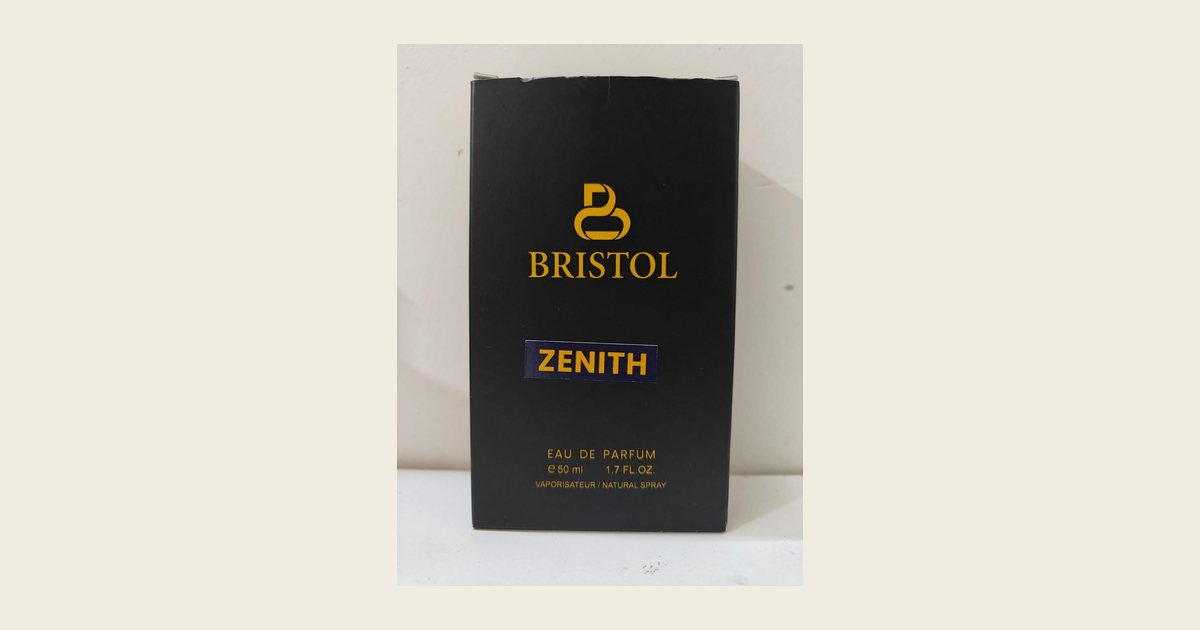
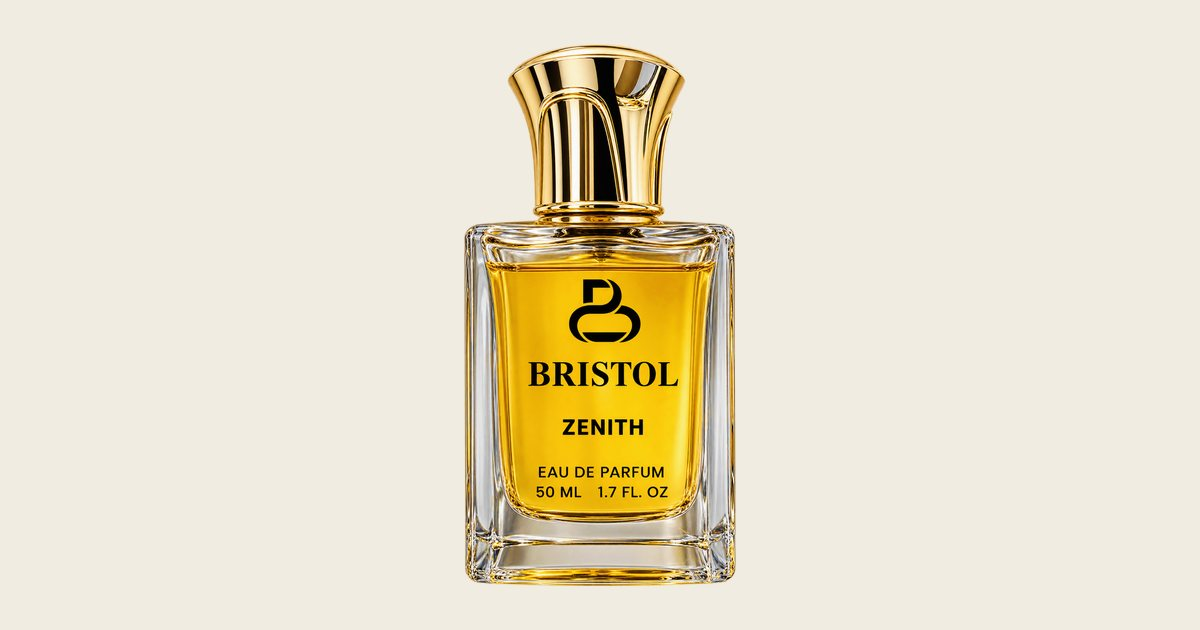
Add studio photos for Bristol Zircon and Zenith
Claude-Session: https://claude.ai/code/session_01LvnarCYSR6BX3aaTf6z1kV

Changed region(s): [[0.3083, 0.0603, 0.6783, 0.9349]]

diff --git a/p/bristol-zircon-edp-50ml/index.html b/p/bristol-zircon-edp-50ml/index.html
@@ -1,9 +1,9 @@
 <!doctype html>
 <html lang="en"><head><meta charset="utf-8"><link rel="preconnect" href="https://script.google.com"><link rel="preconnect" href="https://script.googleusercontent.com" crossorigin><link rel="preconnect" href="https://www.gstatic.com"><meta name="viewport" content="width=device-width,initial-scale=1">
-<title>Bristol Zircon – Eau de Parfum, 50 ml | Buy Online – ORVISH</title><meta name="description" content="Buy Bristol Zircon – Eau de Parfum, 50 ml by Bristol online at ORVISH for ₹949. A refined Bristol Eau de Parfum in a deep blue and gold pack, made in France…"><link rel="canonical" href="https://www.orvish.com/p/bristol-zircon-edp-50ml/"><meta property="og:type" content="product"><meta property="og:title" content="Bristol Zircon – Eau de Parfum, 50 ml"><meta property="og:description" content="Buy Bristol Zircon – Eau de Parfum, 50 ml by Bristol online at ORVISH for ₹949. A refined Bristol Eau de Parfum in a deep blue and gold pack, made in France…"><meta property="og:url" content="https://www.orvish.com/p/bristol-zircon-edp-50ml/"><meta property="og:image" content="https://www.orvish.com/images/share/bristol-zircon-edp-50ml.jpg"><meta property="og:image:secure_url" content="https://www.orvish.com/images/share/bristol-zircon-edp-50ml.jpg"><meta property="og:image:type" content="image/jpeg"><meta property="og:image:width" content="1200"><meta property="og:image:height" content="630"><meta property="og:image:alt" content="Bristol Zircon – Eau de Parfum, 50 ml"><meta name="twitter:image" content="https://www.orvish.com/images/share/bristol-zircon-edp-50ml.jpg"><link rel="preload" as="image" href="/images/opt/bristol-zircon-front-1200-800.webp" imagesrcset="/images/opt/bristol-zircon-front-1200-400.webp 400w, /images/opt/bristol-zircon-front-1200-600.webp 600w, /images/opt/bristol-zircon-front-1200-800.webp 800w, /images/opt/bristol-zircon-front-1200-1200.webp 1200w" imagesizes="(max-width:820px) 100vw, 50vw" fetchpriority="high"><meta property="product:price:amount" content="949"><meta property="product:price:currency" content="INR"><meta name="twitter:card" content="summary_large_image"><script type="application/ld+json" data-static-ld>{"@context": "https://schema.org", "@type": "Product", "name": "Bristol Zircon – Eau de Parfum, 50 ml", "image": ["https://www.orvish.com/images/uploads/bristol_zircon_front_1200.jpg", "https://www.orvish.com/images/uploads/bristol_zircon_back_1200.jpg"], "description": "Bristol Zircon is an elegant Eau de Parfum from Bristol Perfumes, presented in a deep blue and gold box. Fragrance made in France. Size: 50 ml Concentration: Eau de Parfum Best for: daily wear, evenings and gifting. Suits both men and women.", "sku": "bristol-zircon-edp-50ml", "offers": {"@type": "Offer", "url": "https://www.orvish.com/p/bristol-zircon-edp-50ml/", "priceCurrency": "INR", "price": 949, "availability": "https://schema.org/InStock", "itemCondition": "https://schema.org/NewCondition", "hasMerchantReturnPolicy": {"@type": "MerchantReturnPolicy", "applicableCountry": "IN", "returnPolicyCategory": "https://schema.org/MerchantReturnFiniteReturnWindow", "merchantReturnDays": 5}, "shippingDetails": {"@type": "OfferShippingDetails", "shippingRate": {"@type": "MonetaryAmount", "value": 0, "currency": "INR"}, "shippingDestination": {"@type": "DefinedRegion", "addressCountry": "IN"}, "deliveryTime": {"@type": "ShippingDeliveryTime", "handlingTime": {"@type": "QuantitativeValue", "minValue": 0, "maxValue": 1, "unitCode": "DAY"}, "transitTime": {"@type": "QuantitativeValue", "minValue": 3, "maxValue": 6, "unitCode": "DAY"}}}}, "brand": {"@type": "Brand", "name": "Bristol"}}</script><script type="application/ld+json" data-static-ld>{"@context": "https://schema.org", "@type": "BreadcrumbList", "itemListElement": [{"@type": "ListItem", "position": 1, "name": "Home", "item": "https://www.orvish.com/"}, {"@type": "ListItem", "position": 2, "name": "Shop", "item": "https://www.orvish.com/shop"}, {"@type": "ListItem", "position": 3, "name": "Bristol Zircon – Eau de Parfum, 50 ml", "item": "https://www.orvish.com/p/bristol-zircon-edp-50ml/"}]}</script>
+<title>Bristol Zircon – Eau de Parfum, 50 ml | Buy Online – ORVISH</title><meta name="description" content="Buy Bristol Zircon – Eau de Parfum, 50 ml by Bristol online at ORVISH for ₹949. A refined Bristol Eau de Parfum in a deep blue and gold pack, made in France…"><link rel="canonical" href="https://www.orvish.com/p/bristol-zircon-edp-50ml/"><meta property="og:type" content="product"><meta property="og:title" content="Bristol Zircon – Eau de Parfum, 50 ml"><meta property="og:description" content="Buy Bristol Zircon – Eau de Parfum, 50 ml by Bristol online at ORVISH for ₹949. A refined Bristol Eau de Parfum in a deep blue and gold pack, made in France…"><meta property="og:url" content="https://www.orvish.com/p/bristol-zircon-edp-50ml/"><meta property="og:image" content="https://www.orvish.com/images/share/bristol-zircon-edp-50ml.jpg"><meta property="og:image:secure_url" content="https://www.orvish.com/images/share/bristol-zircon-edp-50ml.jpg"><meta property="og:image:type" content="image/jpeg"><meta property="og:image:width" content="1200"><meta property="og:image:height" content="630"><meta property="og:image:alt" content="Bristol Zircon – Eau de Parfum, 50 ml"><meta name="twitter:image" content="https://www.orvish.com/images/share/bristol-zircon-edp-50ml.jpg"><link rel="preload" as="image" href="/images/opt/bristol-zircon-bottle-1200-800.webp" imagesrcset="/images/opt/bristol-zircon-bottle-1200-400.webp 400w, /images/opt/bristol-zircon-bottle-1200-600.webp 600w, /images/opt/bristol-zircon-bottle-1200-800.webp 800w, /images/opt/bristol-zircon-bottle-1200-1200.webp 1200w" imagesizes="(max-width:820px) 100vw, 50vw" fetchpriority="high"><meta property="product:price:amount" content="949"><meta property="product:price:currency" content="INR"><meta name="twitter:card" content="summary_large_image"><script type="application/ld+json" data-static-ld>{"@context": "https://schema.org", "@type": "Product", "name": "Bristol Zircon – Eau de Parfum, 50 ml", "image": ["https://www.orvish.com/images/uploads/bristol_zircon_bottle_1200.png", "https://www.orvish.com/images/uploads/bristol_zircon_set_1200.png", "https://www.orvish.com/images/uploads/bristol_zircon_back_1200.jpg"], "description": "Bristol Zircon is an elegant Eau de Parfum from Bristol Perfumes, presented in a deep blue and gold box. Fragrance made in France. Size: 50 ml Concentration: Eau de Parfum Best for: daily wear, evenings and gifting. Suits both men and women.", "sku": "bristol-zircon-edp-50ml", "offers": {"@type": "Offer", "url": "https://www.orvish.com/p/bristol-zircon-edp-50ml/", "priceCurrency": "INR", "price": 949, "availability": "https://schema.org/InStock", "itemCondition": "https://schema.org/NewCondition", "hasMerchantReturnPolicy": {"@type": "MerchantReturnPolicy", "applicableCountry": "IN", "returnPolicyCategory": "https://schema.org/MerchantReturnFiniteReturnWindow", "merchantReturnDays": 5}, "shippingDetails": {"@type": "OfferShippingDetails", "shippingRate": {"@type": "MonetaryAmount", "value": 0, "currency": "INR"}, "shippingDestination": {"@type": "DefinedRegion", "addressCountry": "IN"}, "deliveryTime": {"@type": "ShippingDeliveryTime", "handlingTime": {"@type": "QuantitativeValue", "minValue": 0, "maxValue": 1, "unitCode": "DAY"}, "transitTime": {"@type": "QuantitativeValue", "minValue": 3, "maxValue": 6, "unitCode": "DAY"}}}}, "brand": {"@type": "Brand", "name": "Bristol"}}</script><script type="application/ld+json" data-static-ld>{"@context": "https://schema.org", "@type": "BreadcrumbList", "itemListElement": [{"@type": "ListItem", "position": 1, "name": "Home", "item": "https://www.orvish.com/"}, {"@type": "ListItem", "position": 2, "name": "Shop", "item": "https://www.orvish.com/shop"}, {"@type": "ListItem", "position": 3, "name": "Bristol Zircon – Eau de Parfum, 50 ml", "item": "https://www.orvish.com/p/bristol-zircon-edp-50ml/"}]}</script>
 <meta property="og:site_name" content="ORVISH"><script>/* start downloading the store data while the page script loads */(function(){var v=Math.floor(Date.now()/120000),o={};['site','products','pages','home','nav','commerce'].forEach(function(n){o['/data/'+n+'.json']=fetch('/data/'+n+'.json?v='+v).then(function(r){if(!r.ok)throw new Error(n);return r.json()})});window.__orvData=o})();</script><link rel="preconnect" href="https://fonts.googleapis.com"><link rel="preconnect" href="https://fonts.gstatic.com" crossorigin>
 <link rel="preload" as="style" href="https://fonts.googleapis.com/css2?family=DM+Sans:wght@400;500;600;700&family=Playfair+Display:wght@400;500;600&display=swap" onload="this.onload=null;this.rel='stylesheet'"><noscript><link rel="stylesheet" href="https://fonts.googleapis.com/css2?family=DM+Sans:wght@400;500;600;700&family=Playfair+Display:wght@400;500;600&display=swap"></noscript>
 <link rel="icon" href="/favicon.ico" sizes="48x48"><link rel="icon" href="/images/favicon-192.png" type="image/png" sizes="192x192"><link rel="apple-touch-icon" href="/images/apple-touch-icon.png"><link rel="stylesheet" href="/css/style.css?v=87"></head>
 <body data-page="product"><div class="announce" id="announce"></div><header class="header" id="header"></header>
-<main class="wrap"><div class="crumbs"><a href="/">Home</a> / <a href="/shop">Shop</a></div><div class="pdp" id="pdp"><noscript><h1>Bristol Zircon – Eau de Parfum, 50 ml</h1><img src="https://www.orvish.com/images/uploads/bristol_zircon_front_1200.jpg" alt="Bristol Zircon – Eau de Parfum, 50 ml" width="400"><p>Bristol</p><p>₹949</p><p>Bristol Zircon is an elegant Eau de Parfum from Bristol Perfumes, presented in a deep blue and gold box. Fragrance made in France. Size: 50 ml Concentration: Eau de Parfum Best for: daily wear, evenings and gifting. Suits both men and women.</p></noscript></div><div id="reviews" class="reviews"></div><div id="faq" class="faq"></div><div class="section" id="related-wrap" style="padding-top:0"><h3>Best sellers</h3><div class="grid" id="related"></div></div></main>
+<main class="wrap"><div class="crumbs"><a href="/">Home</a> / <a href="/shop">Shop</a></div><div class="pdp" id="pdp"><noscript><h1>Bristol Zircon – Eau de Parfum, 50 ml</h1><img src="https://www.orvish.com/images/uploads/bristol_zircon_bottle_1200.png" alt="Bristol Zircon – Eau de Parfum, 50 ml" width="400"><p>Bristol</p><p>₹949</p><p>Bristol Zircon is an elegant Eau de Parfum from Bristol Perfumes, presented in a deep blue and gold box. Fragrance made in France. Size: 50 ml Concentration: Eau de Parfum Best for: daily wear, evenings and gifting. Suits both men and women.</p></noscript></div><div id="reviews" class="reviews"></div><div id="faq" class="faq"></div><div class="section" id="related-wrap" style="padding-top:0"><h3>Best sellers</h3><div class="grid" id="related"></div></div></main>
 <footer class="footer" id="footer"></footer><script src="/js/app.js?v=113"></script></body></html>

diff --git a/p/bristol-zenith-edp-50ml/index.html b/p/bristol-zenith-edp-50ml/index.html
@@ -1,9 +1,9 @@
 <!doctype html>
 <html lang="en"><head><meta charset="utf-8"><link rel="preconnect" href="https://script.google.com"><link rel="preconnect" href="https://script.googleusercontent.com" crossorigin><link rel="preconnect" href="https://www.gstatic.com"><meta name="viewport" content="width=device-width,initial-scale=1">
-<title>Bristol Zenith – Eau de Parfum, 50 ml | Buy Online – ORVISH</title><meta name="description" content="Buy Bristol Zenith – Eau de Parfum, 50 ml by Bristol online at ORVISH for ₹949. A refined Bristol Eau de Parfum in a sleek black and gold pack, made in…"><link rel="canonical" href="https://www.orvish.com/p/bristol-zenith-edp-50ml/"><meta property="og:type" content="product"><meta property="og:title" content="Bristol Zenith – Eau de Parfum, 50 ml"><meta property="og:description" content="Buy Bristol Zenith – Eau de Parfum, 50 ml by Bristol online at ORVISH for ₹949. A refined Bristol Eau de Parfum in a sleek black and gold pack, made in…"><meta property="og:url" content="https://www.orvish.com/p/bristol-zenith-edp-50ml/"><meta property="og:image" content="https://www.orvish.com/images/share/bristol-zenith-edp-50ml.jpg"><meta property="og:image:secure_url" content="https://www.orvish.com/images/share/bristol-zenith-edp-50ml.jpg"><meta property="og:image:type" content="image/jpeg"><meta property="og:image:width" content="1200"><meta property="og:image:height" content="630"><meta property="og:image:alt" content="Bristol Zenith – Eau de Parfum, 50 ml"><meta name="twitter:image" content="https://www.orvish.com/images/share/bristol-zenith-edp-50ml.jpg"><link rel="preload" as="image" href="/images/opt/bristol-zenith-front-1200-800.webp" imagesrcset="/images/opt/bristol-zenith-front-1200-400.webp 400w, /images/opt/bristol-zenith-front-1200-600.webp 600w, /images/opt/bristol-zenith-front-1200-800.webp 800w, /images/opt/bristol-zenith-front-1200-1200.webp 1200w" imagesizes="(max-width:820px) 100vw, 50vw" fetchpriority="high"><meta property="product:price:amount" content="949"><meta property="product:price:currency" content="INR"><meta name="twitter:card" content="summary_large_image"><script type="application/ld+json" data-static-ld>{"@context": "https://schema.org", "@type": "Product", "name": "Bristol Zenith – Eau de Parfum, 50 ml", "image": ["https://www.orvish.com/images/uploads/bristol_zenith_front_1200.jpg", "https://www.orvish.com/images/uploads/bristol_zenith_back_1200.jpg"], "description": "Bristol Zenith is an elegant Eau de Parfum from Bristol Perfumes, presented in a sleek black and gold box. Fragrance made in France. Size: 50 ml Concentration: Eau de Parfum Best for: daily wear, evenings and gifting. Suits both men and women.", "sku": "bristol-zenith-edp-50ml", "offers": {"@type": "Offer", "url": "https://www.orvish.com/p/bristol-zenith-edp-50ml/", "priceCurrency": "INR", "price": 949, "availability": "https://schema.org/InStock", "itemCondition": "https://schema.org/NewCondition", "hasMerchantReturnPolicy": {"@type": "MerchantReturnPolicy", "applicableCountry": "IN", "returnPolicyCategory": "https://schema.org/MerchantReturnFiniteReturnWindow", "merchantReturnDays": 5}, "shippingDetails": {"@type": "OfferShippingDetails", "shippingRate": {"@type": "MonetaryAmount", "value": 0, "currency": "INR"}, "shippingDestination": {"@type": "DefinedRegion", "addressCountry": "IN"}, "deliveryTime": {"@type": "ShippingDeliveryTime", "handlingTime": {"@type": "QuantitativeValue", "minValue": 0, "maxValue": 1, "unitCode": "DAY"}, "transitTime": {"@type": "QuantitativeValue", "minValue": 3, "maxValue": 6, "unitCode": "DAY"}}}}, "brand": {"@type": "Brand", "name": "Bristol"}}</script><script type="application/ld+json" data-static-ld>{"@context": "https://schema.org", "@type": "BreadcrumbList", "itemListElement": [{"@type": "ListItem", "position": 1, "name": "Home", "item": "https://www.orvish.com/"}, {"@type": "ListItem", "position": 2, "name": "Shop", "item": "https://www.orvish.com/shop"}, {"@type": "ListItem", "position": 3, "name": "Bristol Zenith – Eau de Parfum, 50 ml", "item": "https://www.orvish.com/p/bristol-zenith-edp-50ml/"}]}</script>
+<title>Bristol Zenith – Eau de Parfum, 50 ml | Buy Online – ORVISH</title><meta name="description" content="Buy Bristol Zenith – Eau de Parfum, 50 ml by Bristol online at ORVISH for ₹949. A refined Bristol Eau de Parfum in a sleek black and gold pack, made in…"><link rel="canonical" href="https://www.orvish.com/p/bristol-zenith-edp-50ml/"><meta property="og:type" content="product"><meta property="og:title" content="Bristol Zenith – Eau de Parfum, 50 ml"><meta property="og:description" content="Buy Bristol Zenith – Eau de Parfum, 50 ml by Bristol online at ORVISH for ₹949. A refined Bristol Eau de Parfum in a sleek black and gold pack, made in…"><meta property="og:url" content="https://www.orvish.com/p/bristol-zenith-edp-50ml/"><meta property="og:image" content="https://www.orvish.com/images/share/bristol-zenith-edp-50ml.jpg"><meta property="og:image:secure_url" content="https://www.orvish.com/images/share/bristol-zenith-edp-50ml.jpg"><meta property="og:image:type" content="image/jpeg"><meta property="og:image:width" content="1200"><meta property="og:image:height" content="630"><meta property="og:image:alt" content="Bristol Zenith – Eau de Parfum, 50 ml"><meta name="twitter:image" content="https://www.orvish.com/images/share/bristol-zenith-edp-50ml.jpg"><link rel="preload" as="image" href="/images/opt/bristol-zenith-bottle-1200-800.webp" imagesrcset="/images/opt/bristol-zenith-bottle-1200-400.webp 400w, /images/opt/bristol-zenith-bottle-1200-600.webp 600w, /images/opt/bristol-zenith-bottle-1200-800.webp 800w, /images/opt/bristol-zenith-bottle-1200-1200.webp 1200w" imagesizes="(max-width:820px) 100vw, 50vw" fetchpriority="high"><meta property="product:price:amount" content="949"><meta property="product:price:currency" content="INR"><meta name="twitter:card" content="summary_large_image"><script type="application/ld+json" data-static-ld>{"@context": "https://schema.org", "@type": "Product", "name": "Bristol Zenith – Eau de Parfum, 50 ml", "image": ["https://www.orvish.com/images/uploads/bristol_zenith_bottle_1200.png", "https://www.orvish.com/images/uploads/bristol_zenith_set_1200.png", "https://www.orvish.com/images/uploads/bristol_zenith_back_1200.jpg"], "description": "Bristol Zenith is an elegant Eau de Parfum from Bristol Perfumes, presented in a sleek black and gold box. Fragrance made in France. Size: 50 ml Concentration: Eau de Parfum Best for: daily wear, evenings and gifting. Suits both men and women.", "sku": "bristol-zenith-edp-50ml", "offers": {"@type": "Offer", "url": "https://www.orvish.com/p/bristol-zenith-edp-50ml/", "priceCurrency": "INR", "price": 949, "availability": "https://schema.org/InStock", "itemCondition": "https://schema.org/NewCondition", "hasMerchantReturnPolicy": {"@type": "MerchantReturnPolicy", "applicableCountry": "IN", "returnPolicyCategory": "https://schema.org/MerchantReturnFiniteReturnWindow", "merchantReturnDays": 5}, "shippingDetails": {"@type": "OfferShippingDetails", "shippingRate": {"@type": "MonetaryAmount", "value": 0, "currency": "INR"}, "shippingDestination": {"@type": "DefinedRegion", "addressCountry": "IN"}, "deliveryTime": {"@type": "ShippingDeliveryTime", "handlingTime": {"@type": "QuantitativeValue", "minValue": 0, "maxValue": 1, "unitCode": "DAY"}, "transitTime": {"@type": "QuantitativeValue", "minValue": 3, "maxValue": 6, "unitCode": "DAY"}}}}, "brand": {"@type": "Brand", "name": "Bristol"}}</script><script type="application/ld+json" data-static-ld>{"@context": "https://schema.org", "@type": "BreadcrumbList", "itemListElement": [{"@type": "ListItem", "position": 1, "name": "Home", "item": "https://www.orvish.com/"}, {"@type": "ListItem", "position": 2, "name": "Shop", "item": "https://www.orvish.com/shop"}, {"@type": "ListItem", "position": 3, "name": "Bristol Zenith – Eau de Parfum, 50 ml", "item": "https://www.orvish.com/p/bristol-zenith-edp-50ml/"}]}</script>
 <meta property="og:site_name" content="ORVISH"><script>/* start downloading the store data while the page script loads */(function(){var v=Math.floor(Date.now()/120000),o={};['site','products','pages','home','nav','commerce'].forEach(function(n){o['/data/'+n+'.json']=fetch('/data/'+n+'.json?v='+v).then(function(r){if(!r.ok)throw new Error(n);return r.json()})});window.__orvData=o})();</script><link rel="preconnect" href="https://fonts.googleapis.com"><link rel="preconnect" href="https://fonts.gstatic.com" crossorigin>
 <link rel="preload" as="style" href="https://fonts.googleapis.com/css2?family=DM+Sans:wght@400;500;600;700&family=Playfair+Display:wght@400;500;600&display=swap" onload="this.onload=null;this.rel='stylesheet'"><noscript><link rel="stylesheet" href="https://fonts.googleapis.com/css2?family=DM+Sans:wght@400;500;600;700&family=Playfair+Display:wght@400;500;600&display=swap"></noscript>
 <link rel="icon" href="/favicon.ico" sizes="48x48"><link rel="icon" href="/images/favicon-192.png" type="image/png" sizes="192x192"><link rel="apple-touch-icon" href="/images/apple-touch-icon.png"><link rel="stylesheet" href="/css/style.css?v=87"></head>
 <body data-page="product"><div class="announce" id="announce"></div><header class="header" id="header"></header>
-<main class="wrap"><div class="crumbs"><a href="/">Home</a> / <a href="/shop">Shop</a></div><div class="pdp" id="pdp"><noscript><h1>Bristol Zenith – Eau de Parfum, 50 ml</h1><img src="https://www.orvish.com/images/uploads/bristol_zenith_front_1200.jpg" alt="Bristol Zenith – Eau de Parfum, 50 ml" width="400"><p>Bristol</p><p>₹949</p><p>Bristol Zenith is an elegant Eau de Parfum from Bristol Perfumes, presented in a sleek black and gold box. Fragrance made in France. Size: 50 ml Concentration: Eau de Parfum Best for: daily wear, evenings and gifting. Suits both men and women.</p></noscript></div><div id="reviews" class="reviews"></div><div id="faq" class="faq"></div><div class="section" id="related-wrap" style="padding-top:0"><h3>Best sellers</h3><div class="grid" id="related"></div></div></main>
+<main class="wrap"><div class="crumbs"><a href="/">Home</a> / <a href="/shop">Shop</a></div><div class="pdp" id="pdp"><noscript><h1>Bristol Zenith – Eau de Parfum, 50 ml</h1><img src="https://www.orvish.com/images/uploads/bristol_zenith_bottle_1200.png" alt="Bristol Zenith – Eau de Parfum, 50 ml" width="400"><p>Bristol</p><p>₹949</p><p>Bristol Zenith is an elegant Eau de Parfum from Bristol Perfumes, presented in a sleek black and gold box. Fragrance made in France. Size: 50 ml Concentration: Eau de Parfum Best for: daily wear, evenings and gifting. Suits both men and women.</p></noscript></div><div id="reviews" class="reviews"></div><div id="faq" class="faq"></div><div class="section" id="related-wrap" style="padding-top:0"><h3>Best sellers</h3><div class="grid" id="related"></div></div></main>
 <footer class="footer" id="footer"></footer><script src="/js/app.js?v=113"></script></body></html>
